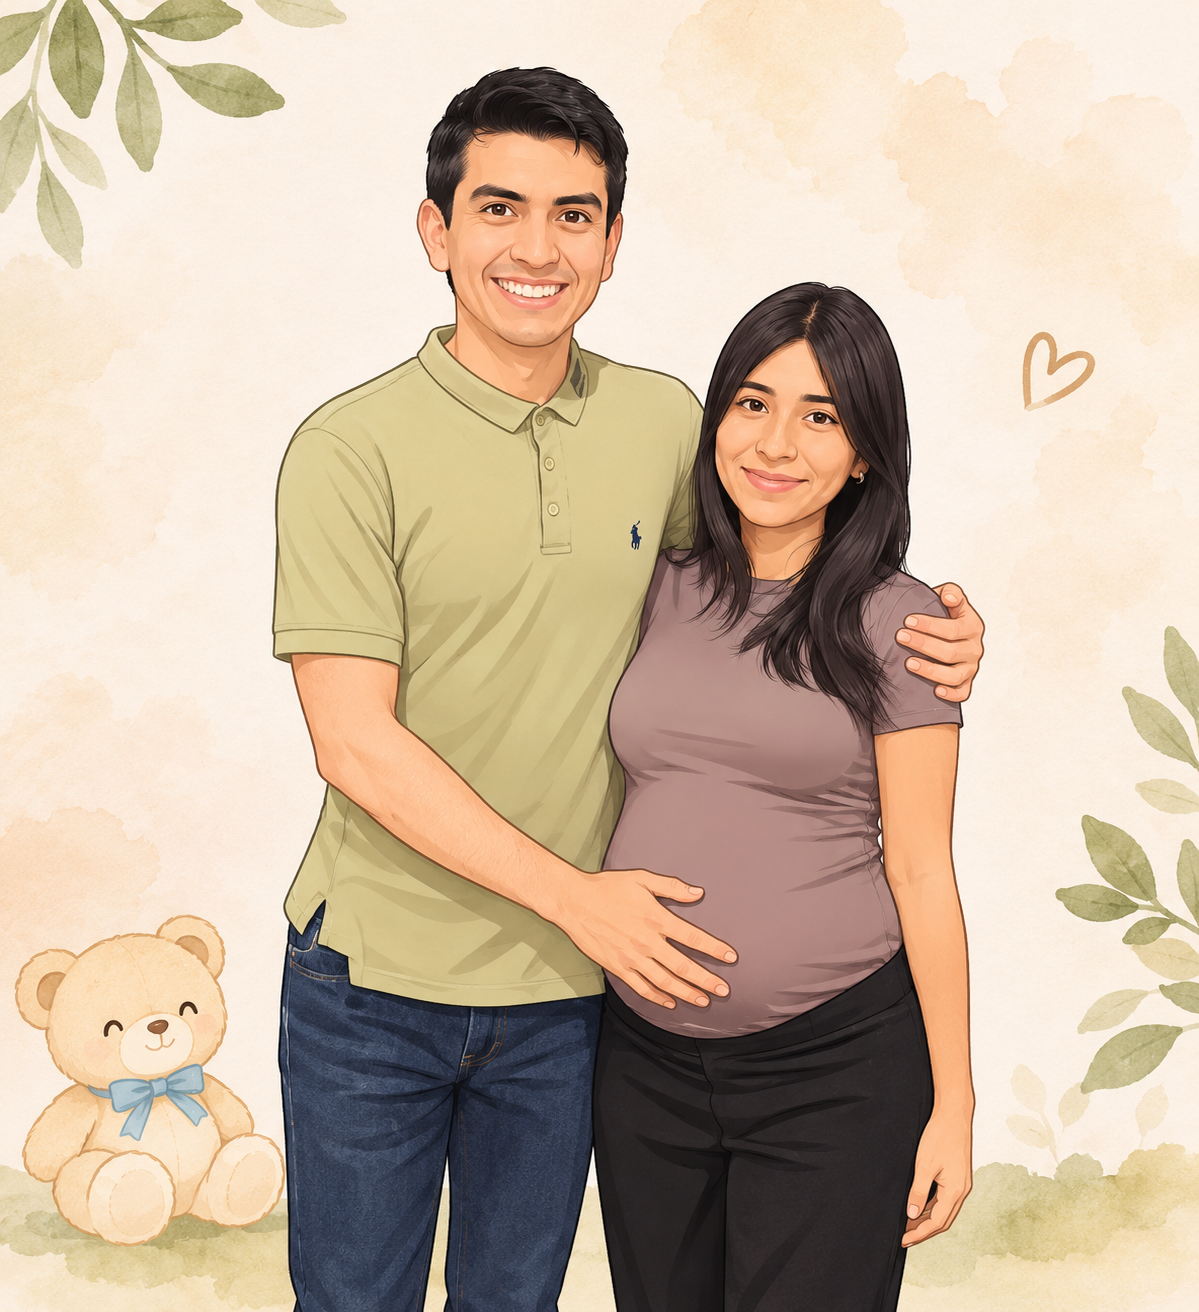
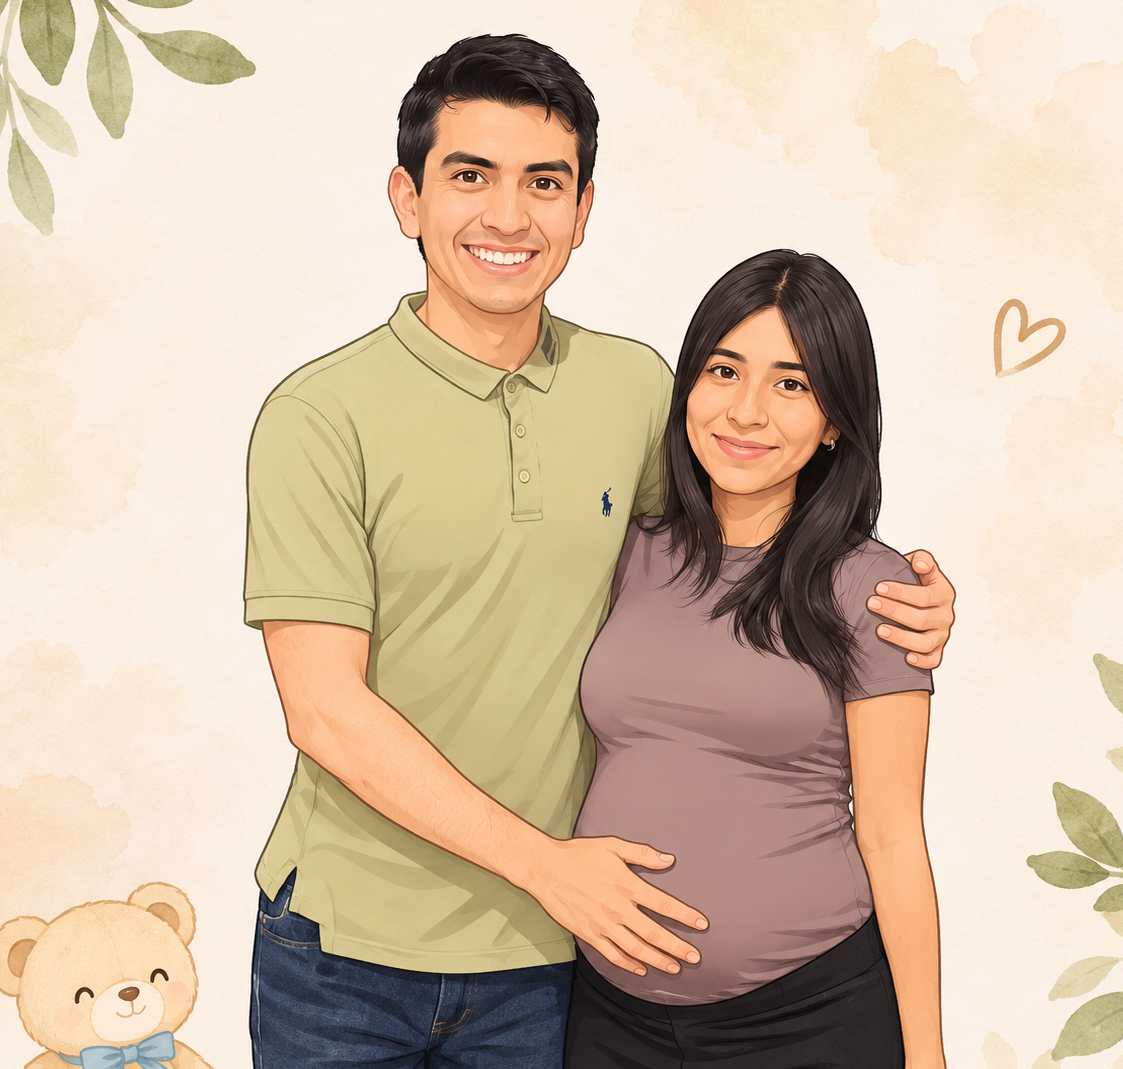
pareja2

diff --git a/config.js b/config.js
@@ -21,8 +21,8 @@ window.INVITACION = {
   mostrarRegalos: true,
   // Fotografías: copia los archivos a la carpeta assets y escribe aquí su ruta.
   // Por ejemplo: "assets/nuestra-foto.jpg" y "assets/ecografia.jpg".
-  fotoPareja: "assets/ilustracion-pareja.png", // Ilustración del bebé como portada; reemplaza por foto de ambos cuando quieras.
-  fotoEcografia: "assets/ilustracion-bebe.webp", // Ilustración favorita del bebé, sin aspecto médico.
+  fotoPareja: "assets/ilustracion-bebe.webp", // Ilustración del bebé como portada; reemplaza por foto de ambos cuando quieras.
+  fotoEcografia: "assets/ilustracion-pareja.png", // Ilustración favorita del bebé, sin aspecto médico.
   // Música instrumental original incluida; se inicia al abrir la invitación.
   musicaArchivo: "assets/melodia-original.mp3",
   musicaAlAbrir: true,
